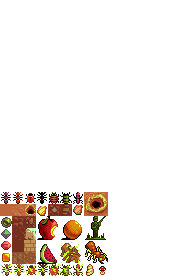
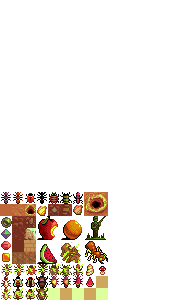
Make ant give less HP, add new tiles

Changed region(s): [[0.0, 0.6377, 0.5625, 1.0]]

diff --git a/enemies.py b/enemies.py
@@ -140,6 +140,7 @@ ANT_DEAD_TILE = TileType(    # ASCII mode
          { "char" : tile(0,6)
          }
 )
+
 def ant(xy):
     return Enemy(
              "Ant",
@@ -147,13 +148,13 @@ def ant(xy):
              ANT_TILE, 
              ANT_DEAD_TILE, 
              EnemyBehaviour(
-                    corpse_heal = 8,
+                    corpse_heal = 4,
                     can_burrow = True, 
                     following_steps = 2,
                     pause_chance = 0.0
              ),
              CombatStats(
-                    hp = 8,
+                    hp = 10,
                     hp_regen = 0,
                     mp = 0, 
                     mp_regen = 0, 
